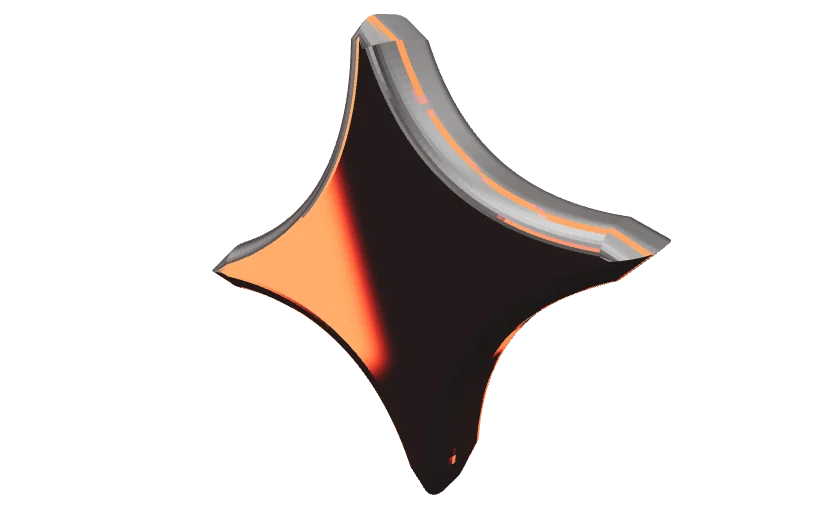
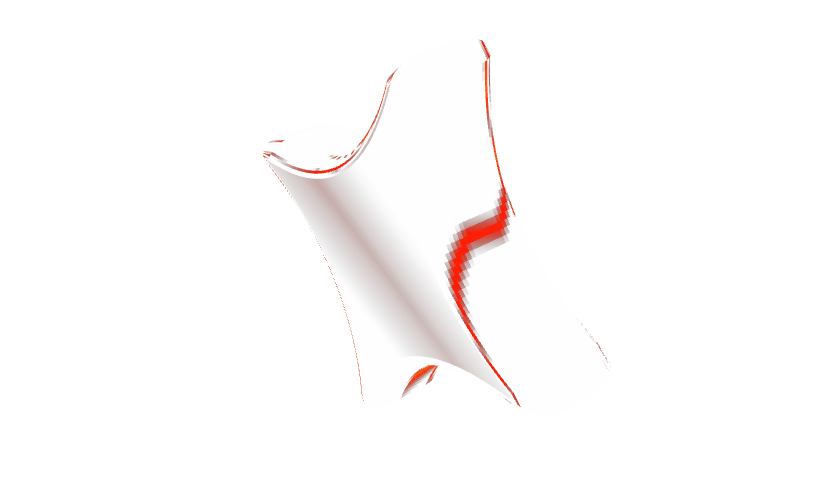
feat: WHAT WE DO 오브제를 주황 네온 유리로 (22차)
Claude-Session: https://claude.ai/code/session_01K6wp9fSxNiTgdEQgPG11gJ

Changed region(s): [[0.2488, 0.0, 0.8086, 0.96]]

diff --git a/js/wwd3d.js b/js/wwd3d.js
@@ -1,75 +1,72 @@
 /* AOMG Concept Redesign — wwd3d.js (ES module)
- * WHAT WE DO 카드 안 3D 오브제 (20차).
- * 사이트 앞에서 나온 모티프 4개: 두꺼운 CD · 유리 지구본 · 반짝임(히어로 스파크) · 깎인 유리 덩어리.
- * 재질: 은색 금속 몸통 + 조명은 주황(#FF3B1F) 하나뿐 (흰 빛 없음).
+ * WHAT WE DO 카드 안 3D 오브제 (20차, 22차 재질 변경).
+ * 사이트 앞에서 나온 모티프 4개: 두꺼운 CD · 유리 지구본 · 반짝임(히어로 스파크) · 매끈한 유리 덩어리.
+ * 재질: 매끈한 투명 유리. 몸통은 비치고(검정), 유리 안에 주황 네온관이 비치듯 가장자리 곡선을 따라 주황 빛이 흐름.
+ *       무지개 분산 없음, 흰 빛 없음. 둘레의 은은한 번짐은 CSS drop-shadow (캔버스가 투명이라 빛난 곳만 번짐).
  * 렌더러 하나로 화면에 보이는 카드만 차례로 그려 각 카드의 2D 캔버스에 복사 (WebGL 컨텍스트 1개).
- * 실패하거나 동작 줄이기면 아무것도 하지 않음 → 카드의 미리 렌더한 이미지가 그대로 보임. */
+ * 실패하거나 동작 줄이기·1024px 미만이면 아무것도 하지 않음 → 카드의 미리 렌더한 이미지가 그대로 보임. */
 import * as THREE from 'three';
 
-const ORANGE = 0xFF3B1F;
+const NEON = [0xFF5A1F, 0xFF6A2A, 0xFF7A35]; // #FF3B1F보다 살짝 노랗게: 어두운 유리 위에서 빨강이 아니라 주황으로 보이게
 
-function buildEnv(renderer) {
-  const scene = new THREE.Scene();
-  // 하늘: 어두운 은색 → 밝은 은색 결 (무채색). 은색 몸통이 이 결을 반사
-  const sg = new THREE.SphereGeometry(20, 64, 32), cols = [], pp = sg.attributes.position;
-  for (let i = 0; i < pp.count; i++) {
-    const y = pp.getY(i) / 20, x = pp.getX(i) / 20;
-    let c;
-    if (y > 0.15) c = 0.25 + 1.6 * Math.pow(y, 1.5);
-    else if (y > -0.05) c = 0.9 + (0.15 - y) * 2.0 * Math.max(0, Math.cos(x * 3.0));
-    else c = 0.03;
-    const t = Math.min(1, Math.max(0, c / 2.0));
-    const g = 0.015 + 0.55 * Math.pow(t, 1.4) * (0.75 + 0.25 * Math.cos(x * 9));
-    cols.push(g, g, g);
+/* 환경: 거의 검정 + 화면 둘레에 가지런히 놓인 주황 네온 띠 12개. 유리가 이 띠를 굴절·반사할 때만 빛남 */
+function buildEnvCube(renderer) {
+  const strip = (() => {
+    const c = document.createElement('canvas'); c.width = 64; c.height = 8;
+    const x = c.getContext('2d'), g = x.createLinearGradient(0, 0, 64, 0);
+    g.addColorStop(0, 'rgba(255,255,255,0)'); g.addColorStop(0.45, 'rgba(255,255,255,0.6)'); g.addColorStop(0.5, '#fff');
+    g.addColorStop(0.55, 'rgba(255,255,255,0.6)'); g.addColorStop(1, 'rgba(255,255,255,0)');
+    x.fillStyle = g; x.fillRect(0, 0, 64, 8);
+    return new THREE.CanvasTexture(c);
+  })();
+  const scene = new THREE.Scene(); scene.background = new THREE.Color(0x020202);
+  let seed = 7; const rnd = () => { seed = (seed * 16807) % 2147483647; return seed / 2147483647; };
+  for (let i = 0; i < 12; i++) {
+    const th = i / 12 * Math.PI * 2 + rnd() * 0.2, ph = (rnd() - 0.5) * 0.5, d = 12;
+    const w = 0.25 + rnd() * 0.35, h = 6 + rnd() * 8;
+    const m = new THREE.Mesh(new THREE.PlaneGeometry(w * 3, h), new THREE.MeshBasicMaterial({ map: strip, color: new THREE.Color(NEON[i % 3]).multiplyScalar(1.6 + rnd() * 1.2), side: THREE.DoubleSide, transparent: true, blending: THREE.AdditiveBlending }));
+    m.position.set(d * Math.cos(ph) * Math.cos(th), d * Math.sin(ph), d * Math.cos(ph) * Math.sin(th));
+    m.lookAt(0, 0, 0); if (i % 3 === 0) m.rotateZ(Math.PI / 2);
+    scene.add(m);
   }
-  sg.setAttribute('color', new THREE.Float32BufferAttribute(cols, 3));
-  scene.add(new THREE.Mesh(sg, new THREE.MeshBasicMaterial({ vertexColors: true, side: THREE.BackSide })));
-  // 조명 판: 전부 주황
-  const panel = (w, h, x, y, z, ry, rx, k) => {
-    const m = new THREE.Mesh(new THREE.PlaneGeometry(w, h), new THREE.MeshBasicMaterial({ color: new THREE.Color(ORANGE).multiplyScalar(k), side: THREE.DoubleSide }));
-    m.position.set(x, y, z); m.rotation.set(rx, ry, 0); scene.add(m);
-  };
-  panel(16, 2.5, 0, 7, -3, 0, Math.PI / 2, 2.2);
-  panel(4, 12, -9, 1, 2, Math.PI / 2, 0, 2.4);
-  panel(4, 12, 9, 1, -2, -Math.PI / 2, 0, 2.0);
-  panel(10, 1.2, 0, -2, -9, 0, 0, 1.6);
-  panel(10, 1.2, 0, -2, 9, Math.PI, 0, 1.4);
-  panel(2.5, 2.5, -5, 5, 7, Math.PI - 0.6, 0.5, 2.2);
-  panel(2.5, 2.5, 6, -1, 6, Math.PI + 0.7, 0, 1.8);
-  const pm = new THREE.PMREMGenerator(renderer);
-  const tex = pm.fromScene(scene, 0.01).texture;
-  pm.dispose();
-  return tex;
+  scene.add(new THREE.Mesh(new THREE.SphereGeometry(30, 16, 8), new THREE.MeshBasicMaterial({ color: 0x0a0302, side: THREE.BackSide })));
+  const rt = new THREE.WebGLCubeRenderTarget(256, { type: THREE.HalfFloatType });
+  new THREE.CubeCamera(0.1, 100, rt).update(renderer, scene);
+  return rt.texture;
 }
 
-const chrome = () => new THREE.MeshPhysicalMaterial({ color: 0xffffff, metalness: 1, roughness: 0.02 });
-const glass = () => new THREE.MeshPhysicalMaterial({ color: 0xffffff, metalness: 0, roughness: 0.03, transmission: 1, thickness: 0.6, ior: 1.5, envMapIntensity: 1.6, clearcoat: 1, transparent: true });
+/* 유리 셰이더: 굴절(몸통) + 프레넬 반사(가장자리). 출력 알파 = 밝기 → 어두운 몸통은 투명, 빛난 곳만 보임 */
+const glassMat = (env) => new THREE.ShaderMaterial({
+  uniforms: { env: { value: env } },
+  transparent: true,
+  vertexShader: /* glsl */`
+    varying vec3 vN; varying vec3 vW;
+    void main() { vec4 w = modelMatrix * vec4(position, 1.0); vW = w.xyz; vN = normalize(mat3(modelMatrix) * normal); gl_Position = projectionMatrix * viewMatrix * w; }`,
+  fragmentShader: /* glsl */`
+    uniform samplerCube env; varying vec3 vN; varying vec3 vW;
+    void main() {
+      vec3 N = normalize(vN), V = normalize(vW - cameraPosition);
+      if (dot(N, V) > 0.0) N = -N;
+      vec3 refr = textureCube(env, refract(V, N, 1.0 / 1.45)).rgb;
+      float fr = pow(1.0 - max(dot(-V, N), 0.0), 3.0);
+      vec3 refl = textureCube(env, reflect(V, N)).rgb;
+      vec3 o = clamp((refr * 0.85 + refl * 0.9 * fr) * 1.3, 0.0, 1.0);
+      gl_FragColor = vec4(o, max(o.r, max(o.g, o.b)));
+    }`,
+});
 
-const makers = {
-  // MUSIC PRODUCTION: 도넛처럼 두꺼운 CD (RELEASES의 CD)
+const geos = {
+  // MUSIC PRODUCTION: 도넛처럼 두꺼운 CD
   cd() {
-    const cv = document.createElement('canvas'); cv.width = 1024; cv.height = 64;
-    const x = cv.getContext('2d'), lg = x.createLinearGradient(0, 0, 1024, 0);
-    ['#f4f4f4', '#cfd8e6', '#ffffff', '#e9d6ef', '#bfc4cc', '#ffffff', '#d6efe9', '#c9ccd2', '#f4f4f4'].forEach((c, i, a) => lg.addColorStop(i / (a.length - 1), c));
-    x.fillStyle = lg; x.fillRect(0, 0, 1024, 64);
-    const tex = new THREE.CanvasTexture(cv); tex.colorSpace = THREE.SRGBColorSpace;
     const R = 1.35, r = 0.36, T = 0.62, b = 0.26, pts = [];
     const arc = (cx, cy, rad, a0, a1, n) => { for (let i = 0; i <= n; i++) { const a = a0 + (a1 - a0) * i / n; pts.push(new THREE.Vector2(cx + rad * Math.cos(a), cy + rad * Math.sin(a))); } };
-    arc(r + b, -T / 2 + b, b, Math.PI, 1.5 * Math.PI, 12); arc(R - b, -T / 2 + b, b, 1.5 * Math.PI, 2 * Math.PI, 12);
-    arc(R - b, T / 2 - b, b, 0, 0.5 * Math.PI, 12); arc(r + b, T / 2 - b, b, 0.5 * Math.PI, Math.PI, 12); pts.push(pts[0].clone());
-    const o = new THREE.Mesh(new THREE.LatheGeometry(pts, 200), new THREE.MeshPhysicalMaterial({ map: tex, metalness: 1, roughness: 0.04, envMapIntensity: 1.2 }));
-    o.rotation.set(1.05, 0.2, -0.35);
-    return o;
-  },
-  // ARTIST MANAGEMENT: 유리 지구본 (히어로 메인 오브제 · 로고의 지구)
-  globe() {
-    const g = new THREE.Group();
-    g.add(new THREE.Mesh(new THREE.SphereGeometry(1.15, 96, 64), glass()));
-    for (let i = 0; i < 3; i++) { const t = new THREE.Mesh(new THREE.TorusGeometry(1.16, 0.014, 16, 200), chrome()); t.rotation.y = i * Math.PI / 3; g.add(t); }
-    [-0.55, 0, 0.55].forEach((y) => { const t = new THREE.Mesh(new THREE.TorusGeometry(Math.sqrt(1.16 * 1.16 - y * y), 0.014, 16, 200), chrome()); t.rotation.x = Math.PI / 2; t.position.y = y; g.add(t); });
-    g.rotation.set(0.35, 0.4, -0.3);
+    arc(r + b, -T / 2 + b, b, Math.PI, 1.5 * Math.PI, 16); arc(R - b, -T / 2 + b, b, 1.5 * Math.PI, 2 * Math.PI, 16);
+    arc(R - b, T / 2 - b, b, 0, 0.5 * Math.PI, 16); arc(r + b, T / 2 - b, b, 0.5 * Math.PI, Math.PI, 16); pts.push(pts[0].clone());
+    const g = new THREE.LatheGeometry(pts, 160); g.computeVertexNormals();
     return g;
   },
+  // ARTIST MANAGEMENT: 유리 지구본 (구 + 경선 고리 3개는 아래에서 추가)
+  globe() { return new THREE.SphereGeometry(1.15, 96, 64); },
   // LIVE & EVENTS: 반짝임 (히어로 유리가 깨질 때 튀는 스파크)
   spark() {
     const sh = new THREE.Shape(), n = 4, ro = 1.45, ri = 0.32;
@@ -78,40 +75,42 @@ const makers = {
       if (i === 0) sh.moveTo(Math.cos(a) * ro, Math.sin(a) * ro);
       sh.quadraticCurveTo(Math.cos(a2) * ri, Math.sin(a2) * ri, Math.cos(a3) * ro, Math.sin(a3) * ro);
     }
-    const g = new THREE.ExtrudeGeometry(sh, { depth: 0.2, bevelEnabled: true, bevelThickness: 0.28, bevelSize: 0.16, bevelSegments: 10, curveSegments: 32 }); g.center();
-    const o = new THREE.Mesh(g, chrome()); o.rotation.set(0.25, -0.5, 0.15);
-    return o;
+    const g = new THREE.ExtrudeGeometry(sh, { depth: 0.25, bevelEnabled: true, bevelThickness: 0.25, bevelSize: 0.14, bevelSegments: 12, curveSegments: 40 });
+    g.center(); g.computeVertexNormals();
+    return g;
   },
-  // CONTENTS & BRAND: 깎인 유리 덩어리 (히어로 유리 조각)
+  // CONTENTS & BRAND: 매끈한 유리 덩어리 (조약돌)
   crystal() {
-    const g = new THREE.DodecahedronGeometry(1.1, 0), p = g.attributes.position, v = new THREE.Vector3();
-    for (let i = 0; i < p.count; i++) { v.fromBufferAttribute(p, i); p.setXYZ(i, v.x * 1.15, v.y * 0.8, v.z * 0.7); }
+    const g = new THREE.SphereGeometry(1.1, 96, 64), p = g.attributes.position, v = new THREE.Vector3();
+    for (let i = 0; i < p.count; i++) {
+      v.fromBufferAttribute(p, i);
+      const n = 1 + 0.18 * Math.sin(v.x * 2.2 + 1.0) * Math.cos(v.y * 1.8) + 0.1 * Math.sin(v.z * 3.0);
+      p.setXYZ(i, v.x * 1.05 * n, v.y * 1.2 * n, v.z * 0.8 * n);
+    }
     g.computeVertexNormals();
-    const o = new THREE.Mesh(g, new THREE.MeshPhysicalMaterial({ color: 0xffffff, metalness: 1, roughness: 0.03, flatShading: true }));
-    o.rotation.set(-0.35, 0.95, 0.55);
-    return o;
+    return g;
   },
 };
 
 export function initWwd3D(section) {
   if (!section) return;
-  if (matchMedia('(prefers-reduced-motion: reduce)').matches || !matchMedia('(min-width: 768px)').matches) return;
+  if (matchMedia('(prefers-reduced-motion: reduce)').matches || !matchMedia('(min-width: 1024px)').matches) return;
   const cards = [...section.querySelectorAll('[data-obj]')];
   let renderer;
-  try {
-    renderer = new THREE.WebGLRenderer({ antialias: true, alpha: true });
-  } catch (e) { return; }
+  try { renderer = new THREE.WebGLRenderer({ antialias: true, alpha: true }); } catch (e) { return; }
   renderer.setClearColor(0x000000, 0);
-  renderer.toneMapping = THREE.ACESFilmicToneMapping;
-  const env = buildEnv(renderer);
-  const camera = new THREE.PerspectiveCamera(32, 1, 0.1, 50); camera.position.set(0, 0, 6.2);
+  const env = buildEnvCube(renderer);
+  const camera = new THREE.PerspectiveCamera(30, 1, 0.1, 50); camera.position.set(0, 0, 6.6);
   const items = cards.map((card) => {
     const box = card.querySelector('.wwd__obj');
     const canvas = document.createElement('canvas'); canvas.className = 'wwd__canvas'; canvas.setAttribute('aria-hidden', 'true');
     box.appendChild(canvas);
-    const scene = new THREE.Scene(); scene.environment = env;
-    const obj = makers[card.dataset.obj](); scene.add(obj);
-    return { card, box, canvas, ctx: canvas.getContext('2d'), scene, obj, base: obj.rotation.clone(), ready: false };
+    const scene = new THREE.Scene();
+    const mat = glassMat(env);
+    const obj = new THREE.Mesh(geos[card.dataset.obj](), mat);
+    if (card.dataset.obj === 'globe') for (let i = 0; i < 3; i++) { const t = new THREE.Mesh(new THREE.TorusGeometry(1.2, 0.045, 24, 200), mat); t.rotation.y = i * Math.PI / 3; obj.add(t); }
+    scene.add(obj);
+    return { card, box, canvas, ctx: canvas.getContext('2d'), scene, obj, ready: false };
   });
   let W = 0, H = 0;
   const fit = () => {
@@ -129,8 +128,8 @@ export function initWwd3D(section) {
     items.forEach((it, i) => {
       const r = it.card.getBoundingClientRect();
       if (r.bottom < 0 || r.top > innerHeight) return;            // 화면 밖 카드는 그리지 않음
-      // 천천히 돌면서 주황 하이라이트가 표면을 따라 흐름
-      it.obj.rotation.set(it.base.x + Math.sin(t * 0.5 + i) * 0.18, it.base.y + t * 0.35, it.base.z + Math.cos(t * 0.4 + i) * 0.08);
+      // 한 바퀴 약 9초로 천천히 돌면서 네온 빛이 곡선을 따라 흐름
+      it.obj.rotation.set(0.35 + Math.sin(t * 0.7 + i) * 0.25, t * 0.7 + i * 1.3, 0.15);
       renderer.render(it.scene, camera);
       it.ctx.clearRect(0, 0, W, H); it.ctx.drawImage(renderer.domElement, 0, 0);
       if (!it.ready) { it.ready = true; it.box.classList.add('is-3d'); }

diff --git a/index.html b/index.html
@@ -25,7 +25,7 @@
   <link rel="stylesheet" href="https://fonts.googleapis.com/css2?family=Geist:wght@400;600&family=Instrument+Serif:ital@0;1&display=swap">
   <link rel="stylesheet" href="https://cdn.jsdelivr.net/gh/orioncactus/pretendard@v1.3.9/dist/web/variable/pretendardvariable-dynamic-subset.min.css">
   <link rel="preload" as="image" href="img/release-keyveatz-oxygen.webp">
-  <link rel="stylesheet" href="css/style.css?v=20261030-wwd2">
+  <link rel="stylesheet" href="css/style.css?v=20261030-neon1">
   <script type="importmap">{ "imports": { "three": "./js/vendor/three.module.min.js" } }</script>
 </head>
 <body class="page-home">
@@ -281,13 +281,13 @@
 
   <img class="artist-preview" alt="" aria-hidden="true">
 
-  <script src="js/data.js?v=20261030-wwd2"></script>
-  <script src="js/player.js?v=20261030-wwd2"></script>
-  <script src="js/script.js?v=20261030-wwd2"></script>
-  <script src="js/effects.js?v=20261030-wwd2"></script>
+  <script src="js/data.js?v=20261030-neon1"></script>
+  <script src="js/player.js?v=20261030-neon1"></script>
+  <script src="js/script.js?v=20261030-neon1"></script>
+  <script src="js/effects.js?v=20261030-neon1"></script>
   <script type="module">
-    import { createSoundScene } from './js/sound3d.js?v=20261030-wwd2';
-    import { createLogoScene } from './js/logo3d.js?v=20261030-wwd2';
+    import { createSoundScene } from './js/sound3d.js?v=20261030-neon1';
+    import { createLogoScene } from './js/logo3d.js?v=20261030-neon1';
     const section = document.getElementById('sound');
     const heroEl = document.getElementById('hero');
     const np = document.getElementById('np');
@@ -339,7 +339,7 @@
       .catch((e) => { console.warn(e); document.documentElement.classList.add('no-webgl'); });
     createLogoScene(document.getElementById('footer-canvas'), { mode: 'footer', interactive: false }).catch(() => {});
     // WHAT WE DO 카드 3D 오브제: 실패하면 미리 렌더한 이미지가 그대로 보임
-    import('./js/wwd3d.js?v=20261030-wwd2').then((m) => m.initWwd3D(document.getElementById('what-we-do'))).catch(() => {});
+    import('./js/wwd3d.js?v=20261030-neon1').then((m) => m.initWwd3D(document.getElementById('what-we-do'))).catch(() => {});
   </script>
 </body>
 </html>

diff --git a/artist.html b/artist.html
@@ -24,7 +24,7 @@
   <link rel="stylesheet" href="https://fonts.googleapis.com/css2?family=Geist:wght@400;600&family=Instrument+Serif:ital@0;1&display=swap">
   <link rel="stylesheet" href="https://cdn.jsdelivr.net/gh/orioncactus/pretendard@v1.3.9/dist/web/variable/pretendardvariable-dynamic-subset.min.css">
   <link rel="preload" as="image" href="img/artist-keyveatz.webp">
-  <link rel="stylesheet" href="css/style.css?v=20261030-wwd2">
+  <link rel="stylesheet" href="css/style.css?v=20261030-neon1">
   <script type="importmap">{ "imports": { "three": "./js/vendor/three.module.min.js" } }</script>
 </head>
 <body class="page-artist">
@@ -146,12 +146,12 @@
     <div class="player__end"><button class="cta player__audio" type="button" data-action="audio-toggle" aria-pressed="false" aria-label="소리 켜기"><span class="cta__label" data-copy="audio.on">AUDIO ON</span></button><button class="cta" type="button" data-action="player-close" aria-label="플레이어 접기"><span class="cta__label">CLOSE</span></button></div>
   </div>
 
-  <script src="js/data.js?v=20261030-wwd2"></script>
-  <script src="js/player.js?v=20261030-wwd2"></script>
-  <script src="js/script.js?v=20261030-wwd2"></script>
-  <script src="js/effects.js?v=20261030-wwd2"></script>
+  <script src="js/data.js?v=20261030-neon1"></script>
+  <script src="js/player.js?v=20261030-neon1"></script>
+  <script src="js/script.js?v=20261030-neon1"></script>
+  <script src="js/effects.js?v=20261030-neon1"></script>
   <script type="module">
-    import { createLogoScene } from './js/logo3d.js?v=20261030-wwd2';
+    import { createLogoScene } from './js/logo3d.js?v=20261030-neon1';
     createLogoScene(document.getElementById('footer-canvas'), { mode: 'footer', interactive: false }).catch(() => {});
   </script>
 </body>

diff --git a/css/style.css b/css/style.css
@@ -647,6 +647,8 @@ html.js [data-reveal].is-in { opacity: 1; transform: none; }
 .wwd__obj { position: relative; height: 250px; background: radial-gradient(60% 70% at 50% 55%, rgba(255, 59, 31, 0.16), rgba(255, 59, 31, 0) 70%); }
 .wwd__obj img, .wwd__canvas { position: absolute; inset: 0; width: 100%; height: 100%; object-fit: contain; }
 .wwd__obj img { transform: scale(1.08); }
+/* 22차: 주황 네온 — 빛난 곳 둘레만 은은하게 번짐 (캔버스·이미지 모두 투명 배경) */
+.wwd__obj img, .wwd__canvas { filter: drop-shadow(0 0 8px rgba(255, 74, 31, 0.55)) drop-shadow(0 0 22px rgba(255, 59, 31, 0.25)); }
 .wwd__obj.is-3d img { visibility: hidden; }
 /* 데스크톱 + 동작 허용: 화면 고정, 문장은 좌우에서 날아오고 카드는 아래에서 위로 지나감 (JS가 --k1~3, --out, --y 설정) */
 @media (min-width: 1024px) and (prefers-reduced-motion: no-preference) {

diff --git a/docs/static-page-fix-log.md b/docs/static-page-fix-log.md
@@ -243,3 +243,10 @@
 | # | 구분 | 내용 | 파일 |
 |---|---|---|---|
 | 89 | 변경 | 문장이 너무 빨리 들어오고 빠짐 → 들어오는 구간 화면 약 0.65개 → 1.7개(줄마다 차례로), 빠지는 구간 0.3개 → 1.2개. 문장은 스크롤을 시간 상수 0.45초로 따라가 빠르게 스크롤해도 약 1초에 걸쳐 천천히 움직임. 섹션 고정 길이 화면 3.6개 → 4.6개 | `js/script.js`, `css/style.css` |
+
+### 22차: WHAT WE DO 오브제 재질 — 주황 네온 유리 (2026-10-30, 오브제 프리즘 vs 주황 네온 시안)
+
+| # | 구분 | 내용 | 파일 |
+|---|---|---|---|
+| 90 | 변경 | 오브제 재질: 은색 금속 → 매끈한 투명 유리. 몸통은 비치고, 유리 안에 주황 네온관이 비치듯 가장자리 곡선을 따라 주황 빛이 흐름(무지개 분산·흰 빛 없음). 둘레에 은은한 번짐(CSS drop-shadow). 유리 덩어리는 각진 다면체 → 매끈한 조약돌. 한 바퀴 약 9초 | `js/wwd3d.js`, `css/style.css` |
+| 91 | 변경 | 3D는 1024px 이상에서만(카드가 고정되는 폭과 같게). 그 외·동작 줄이기·실패 시 같은 네온 재질로 미리 렌더한 투명 이미지 | `js/wwd3d.js`, `img/wwd-*.webp` |
